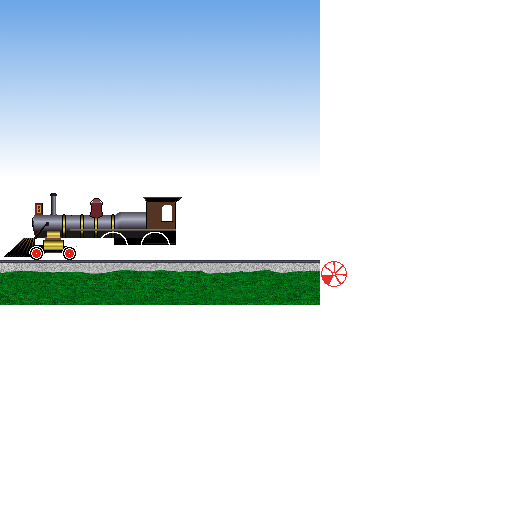
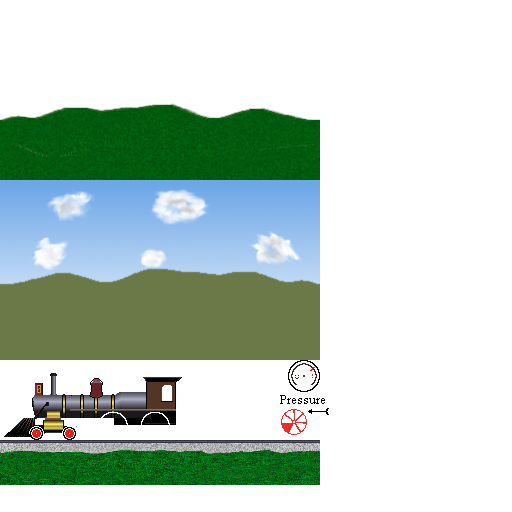
Add pressure dial, kill train move speed by accident

diff --git a/game_view.py b/game_view.py
@@ -36,11 +36,47 @@ class Wheel(object):
         self.angle = self.initial_angle + (moved/self.radius)
         self.set_vertices()
 
+class PressureGauge(object):
+    range = math.pi*2*0.77
+    start = math.pi/4
+    def __init__(self, train):
+        self.train = train
+        self.name = 'pressure.png'
+        self.quad = drawing.Quad(globals.screen_texture_buffer,tc = globals.atlas.TextureSpriteCoords(self.name))
+        self.size = globals.atlas.SubimageSprite(self.name).size
+        self.arrow_quad = drawing.Quad(globals.screen_texture_buffer,tc = globals.atlas.TextureSpriteCoords('arrow.png'))
+        self.arrow_size = globals.atlas.SubimageSprite('arrow.png').size
+        self.arrow_coords = ((-11,-3),(-11,3),(9,3),(9,-3))
+        bl = Point(0.6,0.72)*globals.screen
+        tr = bl + self.size
+        self.pos = bl
+        self.arrow_pos = bl + Point(24,32)
+        self.quad.SetVertices(bl,tr,0.4)
+        self.level = 0
+        self.set_dial()
+
+    def set_dial(self):
+        new_angle = -self.level*self.range + self.start
+        vertices = [0,0,0,0]
+        for i,coord in enumerate(self.arrow_coords):
+            p = coord[0] + coord[1]*1j
+            distance,old_angle = cmath.polar(p)
+            c = cmath.rect(distance,old_angle + new_angle)
+            vertices[i] = self.arrow_pos + Point(c.real, c.imag)
+        self.arrow_quad.SetAllVertices(vertices, 0.5)
+
+    def Update(self, elapsed):
+        self.level += elapsed/5
+        if self.level > 1:
+            self.level = 0
+        self.set_dial()
+
 
 class Train(object):
     def __init__(self):
         self.quad = drawing.Quad(globals.quad_buffer,tc = globals.atlas.TextureSpriteCoords('train.png'))
         self.quad.SetVertices(Point(20,43),Point(300,43+80),0.2)
+        self.pressure_gauge = PressureGauge(self)
         self.wheels = [Wheel(20+x,y,r) for (x,y,r) in ((99,43,0),(141,43,math.pi))]
         self.move_direction = 0
         #self.wheel = drawing.Quad(globals.quad_buffer,tc = globals.atlas.TextureSpriteCoords(os.path.join('wheel.png')))
@@ -56,11 +92,14 @@ class Train(object):
         for wheel in self.wheels:
             wheel.Update(self.moved)
 
+        self.pressure_gauge.Update(elapsed)
+
 class LoopingQuad(object):
-    def __init__(self, pos, z, name):
+    def __init__(self, pos, z, name, sf):
         self.pos = pos
         self.name = name
         self.z = z
+        self.sf = sf
         self.quads = [drawing.Quad(globals.quad_buffer) for i in xrange(2)]
         self.size = globals.atlas.SubimageSprite(self.name).size
         self.tc = globals.atlas.TextureSpriteCoords(self.name)
@@ -82,7 +121,7 @@ class LoopingQuad(object):
         self.quads[1].SetTextureCoordinates(coords)
 
     def Update(self, moved):
-        self.moved = moved % self.size.x
+        self.moved = (moved*self.sf) % self.size.x
         self.set_coords()
 
 
@@ -90,8 +129,9 @@ class GameView(ui.RootElement):
     def __init__(self):
         self.atlas = globals.atlas = drawing.texture.TextureAtlas('tiles_atlas_0.png','tiles_atlas.txt')
         self.game_over = False
-        self.sky = LoopingQuad(Point(0,0), 0, 'sky.png')
-        self.tracks = LoopingQuad(Point(0,0), 0.1, 'tracks.png')
+        self.sky = LoopingQuad(Point(0,0), 0, 'sky.png', 0.1)
+        self.hills = LoopingQuad(Point(0,0), 0.05, 'hills.png', 0.6)
+        self.tracks = LoopingQuad(Point(0,0), 0.1, 'tracks.png', 1.0)
         self.train = Train()
         self.last = None
         self.move_direction = 0
@@ -120,10 +160,12 @@ class GameView(ui.RootElement):
             self.last = t
             return
         elapsed = float(t - self.last)/1000
+        self.last = t
 
         self.train.Update(elapsed)
-        self.sky.Update(self.train.moved)
-        self.tracks.Update(self.train.moved)
+        for backdrop in self.sky,self.tracks,self.hills:
+            backdrop.Update(self.train.moved)
+
         if self.mode:
             self.mode.Update(t)
 
